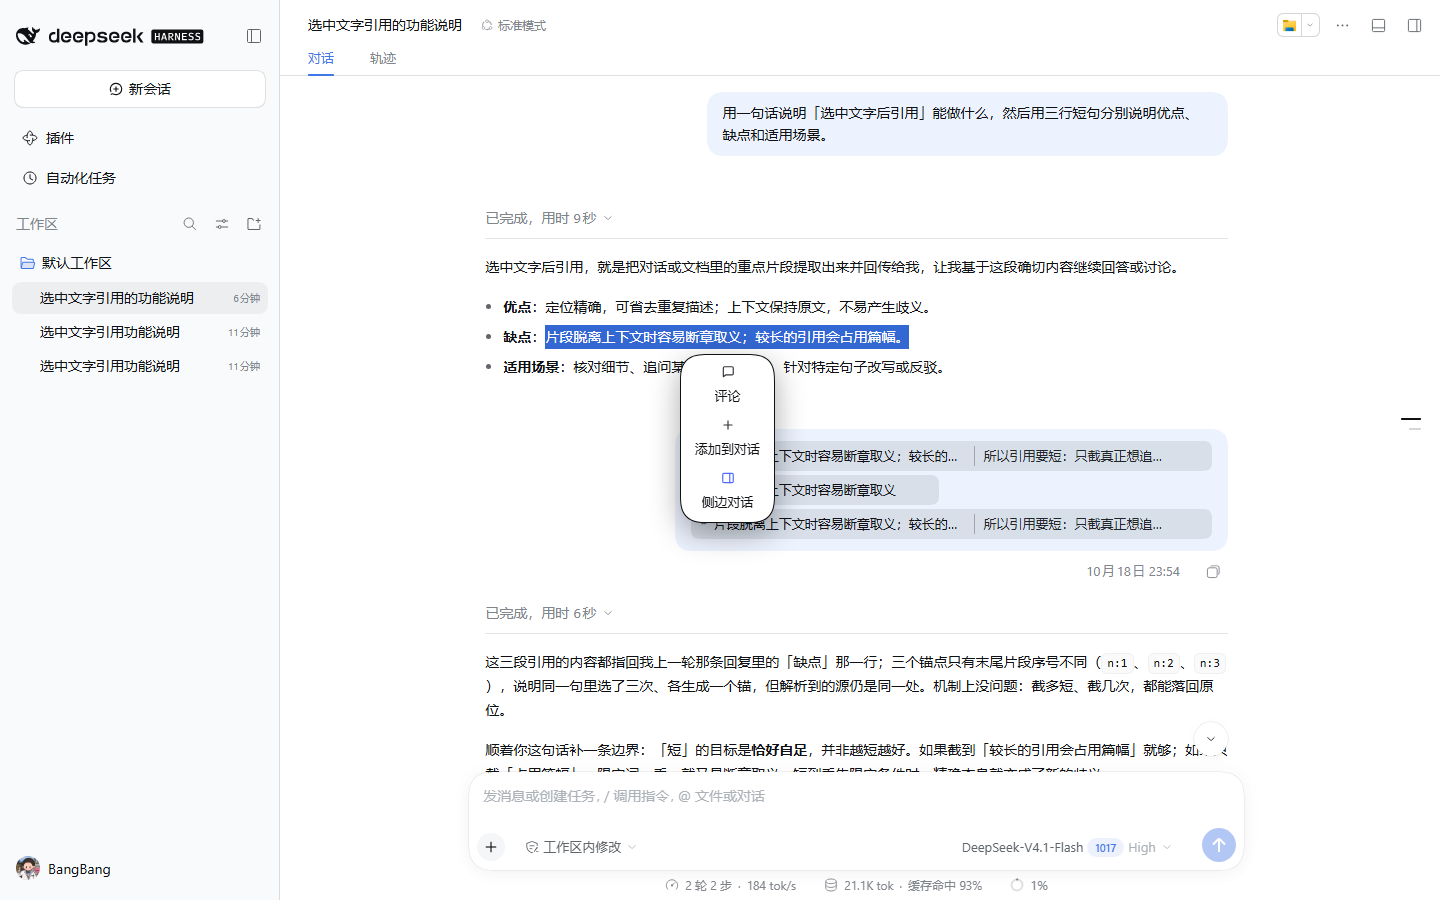
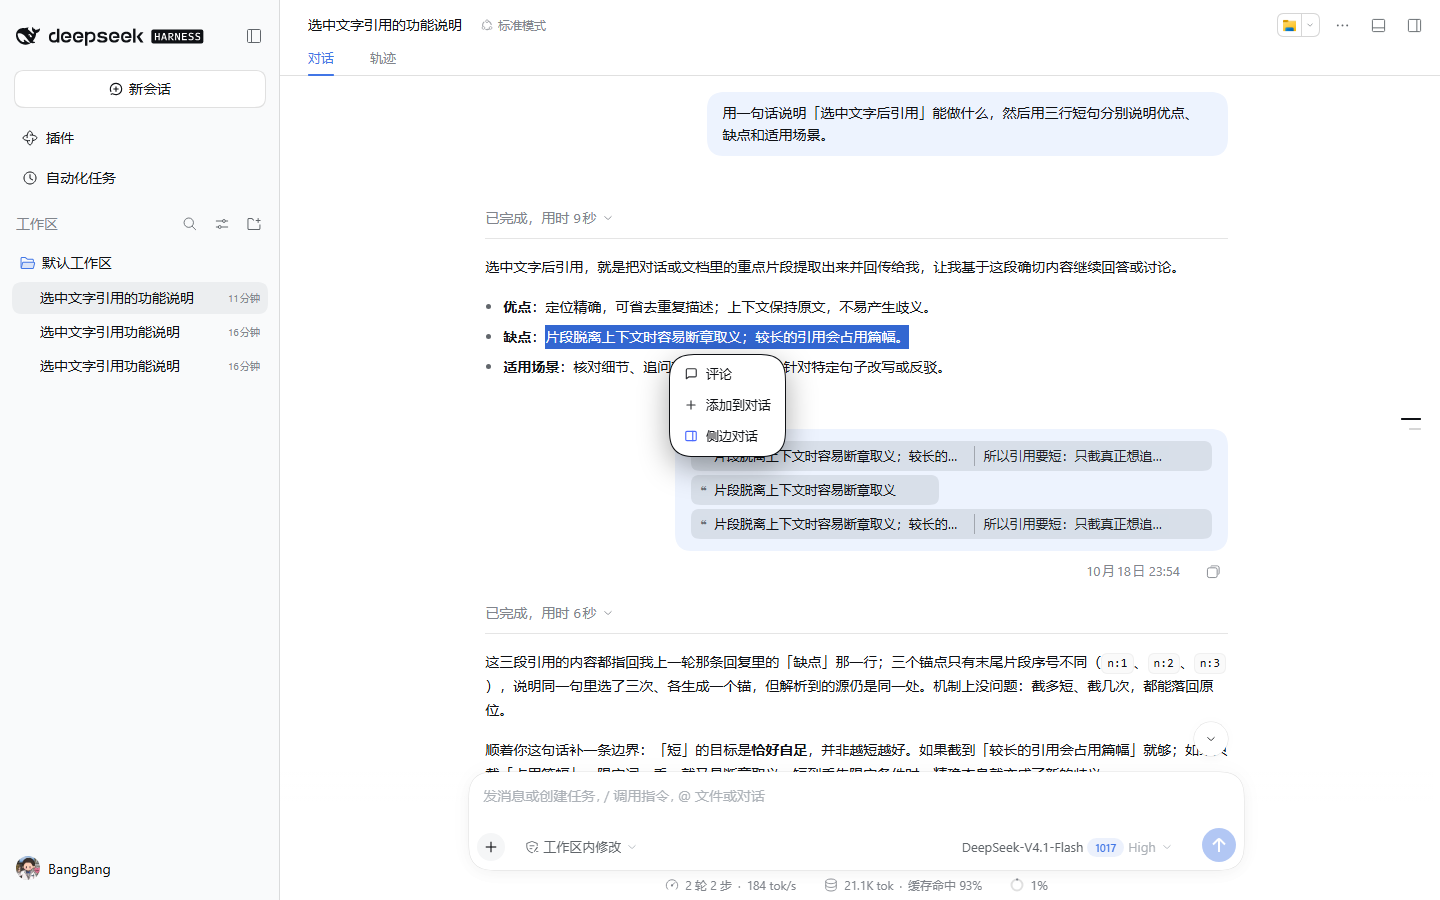
fix(panel): 清单页的 .dshq-row 规则限定在页面根下，截图随 npm 包发布
浮层和清单页共用 .dshq-row 类，页面注册后未限定的列布局把浮层三行压成竖排；现在规则全部挂在 .dshq-list 下并加断言守住。files 增加 docs，check 断言 README 引用的每张截图都在包里；补一张面板断言。

Changed region(s): [[0.4688, 0.4044, 0.5625, 0.6222]]

diff --git a/lib/client.js b/lib/client.js
@@ -3737,15 +3737,18 @@ border:1px solid var(--dshq-border,rgba(127,127,127,.34));background:transparent
 .dshq-list-btn:disabled{opacity:.4;cursor:default}
 .dshq-list-body{flex:1 1 auto;min-height:0;overflow:auto;display:flex;flex-direction:column;gap:8px}
 .dshq-list-note{opacity:.65;padding:10px 2px}
-.dshq-row{display:flex;flex-direction:column;gap:3px;padding:7px 9px;border-radius:8px;
+/* Scoped under the page root: .dshq-row is also the floating bar's row class,
+and an unscoped column direction here turned the bar into a vertical stack the
+moment this page was registered. */
+.dshq-list .dshq-row{display:flex;flex-direction:column;gap:3px;padding:7px 9px;border-radius:8px;
 border:1px solid transparent;background:color-mix(in srgb,currentColor 5%,transparent)}
-.dshq-row[data-dshq-row="jumpable"]{cursor:pointer}
-.dshq-row[data-dshq-row="jumpable"]:hover{border-color:var(--dshq-border,rgba(127,127,127,.34))}
-.dshq-row-quote{white-space:pre-wrap;overflow-wrap:anywhere}
-.dshq-row-code{font-family:ui-monospace,SFMono-Regular,Consolas,"Liberation Mono",Menlo,monospace;white-space:pre;overflow-x:auto}
-.dshq-row-comment{white-space:pre-wrap;overflow-wrap:anywhere;opacity:.82;
+.dshq-list .dshq-row[data-dshq-row="jumpable"]{cursor:pointer}
+.dshq-list .dshq-row[data-dshq-row="jumpable"]:hover{border-color:var(--dshq-border,rgba(127,127,127,.34))}
+.dshq-list .dshq-row-quote{white-space:pre-wrap;overflow-wrap:anywhere}
+.dshq-list .dshq-row-code{font-family:ui-monospace,SFMono-Regular,Consolas,"Liberation Mono",Menlo,monospace;white-space:pre;overflow-x:auto}
+.dshq-list .dshq-row-comment{white-space:pre-wrap;overflow-wrap:anywhere;opacity:.82;
 border-left:2px solid color-mix(in srgb,currentColor 30%,transparent);padding-left:7px}
-.dshq-row-foot{display:flex;align-items:center;gap:8px;font-size:11px;opacity:.6}
+.dshq-list .dshq-row-foot{display:flex;align-items:center;gap:8px;font-size:11px;opacity:.6}
 .dshq-list-thread{display:flex;flex-direction:column;gap:6px;padding-top:8px;
 border-top:1px solid color-mix(in srgb,currentColor 18%,transparent)}
 .dshq-list-thread .dshq-list-btn{margin-left:0}
